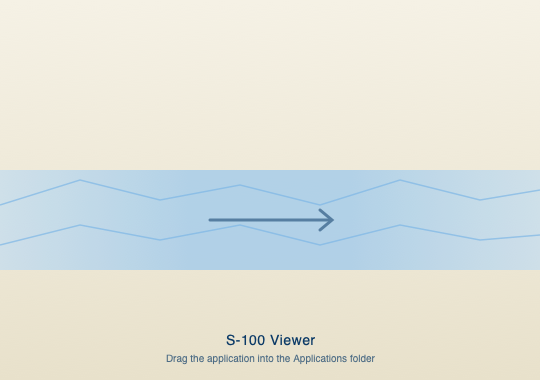
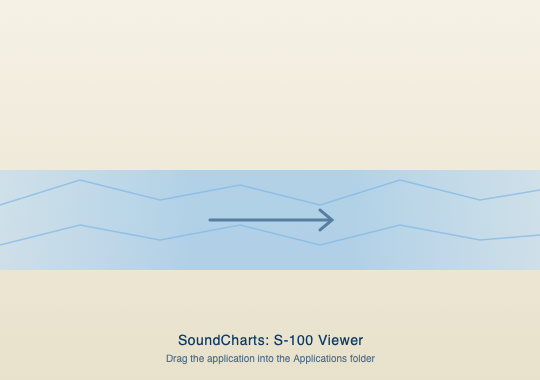
Rename the viewer to "SoundCharts: S-100 Viewer"
User-visible identity and shipped artifacts move to SoundCharts; internal
identifiers stay put.

Display name:
- Window title, macOS app menu, About dialog ("SoundCharts" / "S-100 Viewer"),
  feedback app name, Info.plist CFBundleName/DisplayName, DMG volume name and
  background wordmark (PNGs regenerated), docs and READMEs.

Shipped artifacts:
- <AssemblyName>SoundCharts</AssemblyName> (RootNamespace pinned to
  EncDotNet.S100.Viewer so embedded resource names are unchanged); avares://
  URIs, CFBundleExecutable, app.manifest and the Spectre app name follow.
- CI: SoundCharts.app, SoundCharts-<version>.dmg, SoundCharts-<rid> release
  assets; signing/notarization paths updated. The update checker only reads
  asset sizes, so renamed assets don't affect it.
- Agent/perf docs launch .../<rid>/SoundCharts.

Unchanged by design: bundle id, per-user data folders (settings, routes,
caches), project/namespace names, and the EncDotNet.S100.Viewer telemetry
name. The viewer's ActivitySource/Meter names were derived from the assembly
name, so they are now pinned via new S100Telemetry overloads that take an
explicit name; otherwise they'd silently drop out of the EncDotNet.S100.*
subscription.

Changed region(s): [[0.3259, 0.8684, 0.6815, 0.9263]]

diff --git a/src/EncDotNet.S100.Core/Diagnostics/S100Telemetry.cs b/src/EncDotNet.S100.Core/Diagnostics/S100Telemetry.cs
@@ -79,6 +79,38 @@ public static class S100Telemetry
         return new Meter(GetName(assembly), GetVersion(assembly));
     }
 
+    /// <summary>
+    /// Builds an <see cref="ActivitySource"/> with an explicit
+    /// <paramref name="name"/> (for assemblies whose file name differs from
+    /// their telemetry identity, such as a renamed application executable)
+    /// and the informational version of <paramref name="markerType"/>'s
+    /// assembly.
+    /// </summary>
+    /// <param name="markerType">A type from the assembly that owns the
+    /// new source; supplies the version.</param>
+    /// <param name="name">The source name to publish under.</param>
+    public static ActivitySource CreateActivitySource(Type markerType, string name)
+    {
+        ArgumentNullException.ThrowIfNull(markerType);
+        ArgumentException.ThrowIfNullOrWhiteSpace(name);
+        return new ActivitySource(name, GetVersion(markerType.Assembly));
+    }
+
+    /// <summary>
+    /// Builds a <see cref="Meter"/> with an explicit <paramref name="name"/>
+    /// and the informational version of <paramref name="markerType"/>'s
+    /// assembly. See <see cref="CreateActivitySource(Type, string)"/>.
+    /// </summary>
+    /// <param name="markerType">A type from the assembly that owns the
+    /// new meter; supplies the version.</param>
+    /// <param name="name">The meter name to publish under.</param>
+    public static Meter CreateMeter(Type markerType, string name)
+    {
+        ArgumentNullException.ThrowIfNull(markerType);
+        ArgumentException.ThrowIfNullOrWhiteSpace(name);
+        return new Meter(name, GetVersion(markerType.Assembly));
+    }
+
     private static string GetName(Assembly assembly) =>
         assembly.GetName().Name ?? "EncDotNet.S100";
 

diff --git a/src/EncDotNet.S100.Viewer/Diagnostics/Telemetry.cs b/src/EncDotNet.S100.Viewer/Diagnostics/Telemetry.cs
@@ -13,11 +13,19 @@ namespace EncDotNet.S100.Viewer.Diagnostics;
 /// </summary>
 internal static class Telemetry
 {
+    /// <summary>
+    /// Source / meter / service name. Pinned rather than derived from the
+    /// assembly name: the viewer ships as <c>SoundCharts</c>, but keeps its
+    /// historical telemetry identity (which also matches the
+    /// <c>EncDotNet.S100.*</c> subscription wildcard).
+    /// </summary>
+    public const string Name = "EncDotNet.S100.Viewer";
+
     public static readonly ActivitySource ActivitySource =
-        S100Telemetry.CreateActivitySource(typeof(Telemetry));
+        S100Telemetry.CreateActivitySource(typeof(Telemetry), Name);
 
     public static readonly Meter Meter =
-        S100Telemetry.CreateMeter(typeof(Telemetry));
+        S100Telemetry.CreateMeter(typeof(Telemetry), Name);
 
     public static readonly Histogram<double> CommandDuration =
         Meter.CreateHistogram<double>(

diff --git a/tests/EncDotNet.S100.Viewer.Tests/FeedbackReportingTests.cs b/tests/EncDotNet.S100.Viewer.Tests/FeedbackReportingTests.cs
@@ -15,7 +15,7 @@ public class FeedbackReportingTests
         new()
         {
             GeneratedUtc = new DateTimeOffset(2026, 6, 14, 12, 0, 0, TimeSpan.Zero),
-            Application = new FeedbackAppInfo("S-100 Viewer", "1.2.3", "Dark", "Day"),
+            Application = new FeedbackAppInfo("SoundCharts", "1.2.3", "Dark", "Day"),
             Runtime = new FeedbackRuntimeInfo("macOS 15", "Arm64", ".NET 10.0", "en-US"),
             Viewport = withViewport
                 ? new FeedbackViewportInfo(50.0, -5.0, 51.0, -4.0)

diff --git a/tests/EncDotNet.S100.Pipelines.Tests/S100MapsuiRenderingTests.cs b/tests/EncDotNet.S100.Pipelines.Tests/S100MapsuiRenderingTests.cs
@@ -107,7 +107,8 @@ public class S100MapsuiRenderingTests
 
         Assert.DoesNotContain(
             references,
-            name => name.StartsWith("EncDotNet.S100.Viewer", StringComparison.Ordinal));
+            name => name.StartsWith("EncDotNet.S100.Viewer", StringComparison.Ordinal)
+                || name == "SoundCharts");
         Assert.DoesNotContain(
             references,
             name => name.StartsWith("Avalonia", StringComparison.Ordinal));

diff --git a/src/EncDotNet.S100.Viewer/Diagnostics/MapPaintInstrumentation.cs b/src/EncDotNet.S100.Viewer/Diagnostics/MapPaintInstrumentation.cs
@@ -68,7 +68,7 @@ internal static class MapPaintInstrumentation
     private static long _vectorSplitCalls;
 
     private static readonly Meter Meter =
-        S100Telemetry.CreateMeter(typeof(MapPaintInstrumentation));
+        S100Telemetry.CreateMeter(typeof(MapPaintInstrumentation), Telemetry.Name);
 
     private static readonly Histogram<long> StyleCallsPerPaint =
         Meter.CreateHistogram<long>(

diff --git a/src/EncDotNet.S100.Viewer/Diagnostics/ViewerObservability.cs b/src/EncDotNet.S100.Viewer/Diagnostics/ViewerObservability.cs
@@ -24,7 +24,7 @@ namespace EncDotNet.S100.Viewer.Diagnostics;
 /// </remarks>
 internal static class ViewerObservability
 {
-    private const string ServiceName = "EncDotNet.S100.Viewer";
+    private const string ServiceName = Telemetry.Name;
     private const string SourceWildcard = "EncDotNet.S100.*";
 
     private static ILogger _commandLogger = NullLogger.Instance;

diff --git a/src/EncDotNet.S100.Viewer/Program.cs b/src/EncDotNet.S100.Viewer/Program.cs
@@ -9,7 +9,7 @@ internal sealed class Program
     public static int Main(string[] args)
     {
         var app = new CommandApp<ViewerCommand>();
-        app.Configure(config => config.SetApplicationName("EncDotNet.S100.Viewer"));
+        app.Configure(config => config.SetApplicationName("SoundCharts"));
         return app.Run(args);
     }
 

diff --git a/src/EncDotNet.S100.Viewer/Branding/README.md b/src/EncDotNet.S100.Viewer/Branding/README.md
@@ -1,6 +1,6 @@
 # Viewer branding assets
 
-This folder contains the master art for the S-100 Viewer application and
+This folder contains the master art for the SoundCharts (S-100 Viewer) application and
 all generated icon / installer assets that the build and CI pipeline
 consume.
 
@@ -25,9 +25,9 @@ consume.
 
 ## How it is wired in
 
-- **Avalonia window icon** — `src/EncDotNet.S100.Viewer/EncDotNet.S100.Viewer.csproj` declares `Branding/AppIcon.png` as an `AvaloniaResource`, and `MainWindow.axaml` sets `Icon="avares://EncDotNet.S100.Viewer/Branding/AppIcon.png"`.
+- **Avalonia window icon** — `src/EncDotNet.S100.Viewer/EncDotNet.S100.Viewer.csproj` declares `Branding/AppIcon.png` as an `AvaloniaResource`, and `MainWindow.axaml` sets `Icon="avares://SoundCharts/Branding/AppIcon.png"`.
 - **Windows .exe icon** — the same csproj sets `<ApplicationIcon>Branding\AppIcon.ico</ApplicationIcon>`, so `dotnet publish --runtime win-…` embeds the icon into the executable resource.
-- **macOS .app icon** — `Info.plist` sets `CFBundleIconFile=AppIcon`. The CI build copies `Branding/AppIcon.icns` into `EncDotNet.S100.Viewer.app/Contents/Resources/`.
+- **macOS .app icon** — `Info.plist` sets `CFBundleIconFile=AppIcon`. The CI build copies `Branding/AppIcon.icns` into `SoundCharts.app/Contents/Resources/`.
 - **macOS DMG** — the CI workflow builds the DMG read-write, stages `Branding/dmg-background.png` into a hidden `.background/` folder, then uses AppleScript to set the window bounds, icon size, icon positions, and background image before converting to compressed UDZO.
 
 ## Regenerating

diff --git a/.github/skills/viewer-evaluation/SKILL.md b/.github/skills/viewer-evaluation/SKILL.md
@@ -90,7 +90,7 @@ command's session is torn down — the GUI window dies seconds later.
   *not* rely on `& disown` in a sync command for hand-off runs.
 - The process survives session shutdown; stop it explicitly with
   `kill -9 <pid>` (never name-based kills) when the user is done.
-- Confirm it stayed up (`pgrep -f EncDotNet.S100.Viewer/bin`) before
+- Confirm it stayed up (`pgrep -f EncDotNet.S100.Viewer/bin/.*/SoundCharts`) before
   telling the user it's ready.
 
 ## Procedure: launch, then drive over MCP
@@ -102,7 +102,7 @@ a `dotnet` host:
 ```bash
 dotnet build -c Release src/EncDotNet.S100.Viewer
 mkdir -p /tmp/eval
-nohup src/EncDotNet.S100.Viewer/bin/Release/net10.0/<rid>/EncDotNet.S100.Viewer \
+nohup src/EncDotNet.S100.Viewer/bin/Release/net10.0/<rid>/SoundCharts \
   --data-dir /tmp/eval/data --mcp --mcp-port-file /tmp/eval/mcp.url \
   >/tmp/eval/viewer.log 2>&1 & disown
 ```
@@ -183,7 +183,7 @@ Always `await_render_idle` **before** `render_to_image` or
 read `get_render_stats` for per-style cost. Palette/display/time-step
 wall time is dominated by fixed settle latency — to attribute CPU,
 profile with `dotnet-trace collect -p <viewer-pid>` (default profile;
-attach the `…/<rid>/EncDotNet.S100.Viewer` PID, not a `dotnet` host).
+attach the `…/<rid>/SoundCharts` PID, not a `dotnet` host).
 See the cartography skill for the rendering cost model.
 
 ## Turning a finding into a test

diff --git a/tools/EncDotNet.S100.Cli/README.md b/tools/EncDotNet.S100.Cli/README.md
@@ -108,14 +108,14 @@ embedded fallback font even with no fontconfig or system fonts installed.
 
 ### Inside the Viewer application bundle
 
-The `s100` executable also ships **inside the S-100 Viewer application bundle**
+The `s100` executable also ships **inside the SoundCharts (viewer) application bundle**
 so a single viewer download provides both the GUI and the command-line tool. CI
 publishes it self-contained (per platform RID) into a `cli/` subfolder of the
 viewer's publish output:
 
 | Platform | Location of `s100` |
 |---|---|
-| macOS | `EncDotNet.S100.Viewer.app/Contents/MacOS/cli/s100` (code-signed, notarized, and hardened-runtime alongside the viewer) |
+| macOS | `SoundCharts.app/Contents/MacOS/cli/s100` (code-signed, notarized, and hardened-runtime alongside the viewer) |
 | Windows | `cli/s100.exe` next to the published viewer |
 | Linux | `cli/s100` next to the published viewer |
 

diff --git a/.github/instructions/viewer.instructions.md b/.github/instructions/viewer.instructions.md
@@ -113,7 +113,7 @@ Run the built binary (not `dotnet run`, so the PID you trace is the app
 itself) and let it pick a free port, writing the bound URL to a file:
 
 ```
-src/EncDotNet.S100.Viewer/bin/Release/net10.0/<rid>/EncDotNet.S100.Viewer \
+src/EncDotNet.S100.Viewer/bin/Release/net10.0/<rid>/SoundCharts \
   --ephemeral --mcp --mcp-port-file /tmp/perfrun/mcp.url
 ```
 
@@ -171,7 +171,7 @@ times, timing each `set_palette` + `await_render_idle` round-trip.
 - Profile with `dotnet-trace collect -p <viewer-pid>` (omit
   `--profile`; the default works — `cpu-sampling` is rejected by
   `collect`). The PID to attach is the
-  `…/<rid>/EncDotNet.S100.Viewer` process, not a `dotnet` host.
+  `…/<rid>/SoundCharts` process, not a `dotnet` host.
   Export with `dotnet-trace convert --format speedscope`; the export
   is *evented* (open/close), so compute inclusive time by walking
   stacks.

diff --git a/src/EncDotNet.S100.Viewer/README.md b/src/EncDotNet.S100.Viewer/README.md
@@ -1,6 +1,6 @@
-# EncDotNet.S100.Viewer
+# SoundCharts: S-100 Viewer
 
-Cross-platform desktop viewer for IHO S-100 nautical chart data,
+**SoundCharts** (project `EncDotNet.S100.Viewer`) is a cross-platform desktop viewer for IHO S-100 nautical chart data,
 built on Avalonia 12 + Mapsui 5. Runs on macOS (Apple Silicon),
 Windows, and Linux out of the box, with no native HDF5 dependencies
 and no commercial S-52 assets.
@@ -743,7 +743,7 @@ issue, and nothing is uploaded by the viewer itself.
 
 ## About and software updates
 
-The **Help → About EncDotNet.S100 Viewer** menu opens an About dialog
+The **Help → About SoundCharts** menu opens an About dialog
 that shows the running **version** (and the build's informational
 version + commit SHA + build date) and checks GitHub for a newer
 release:
